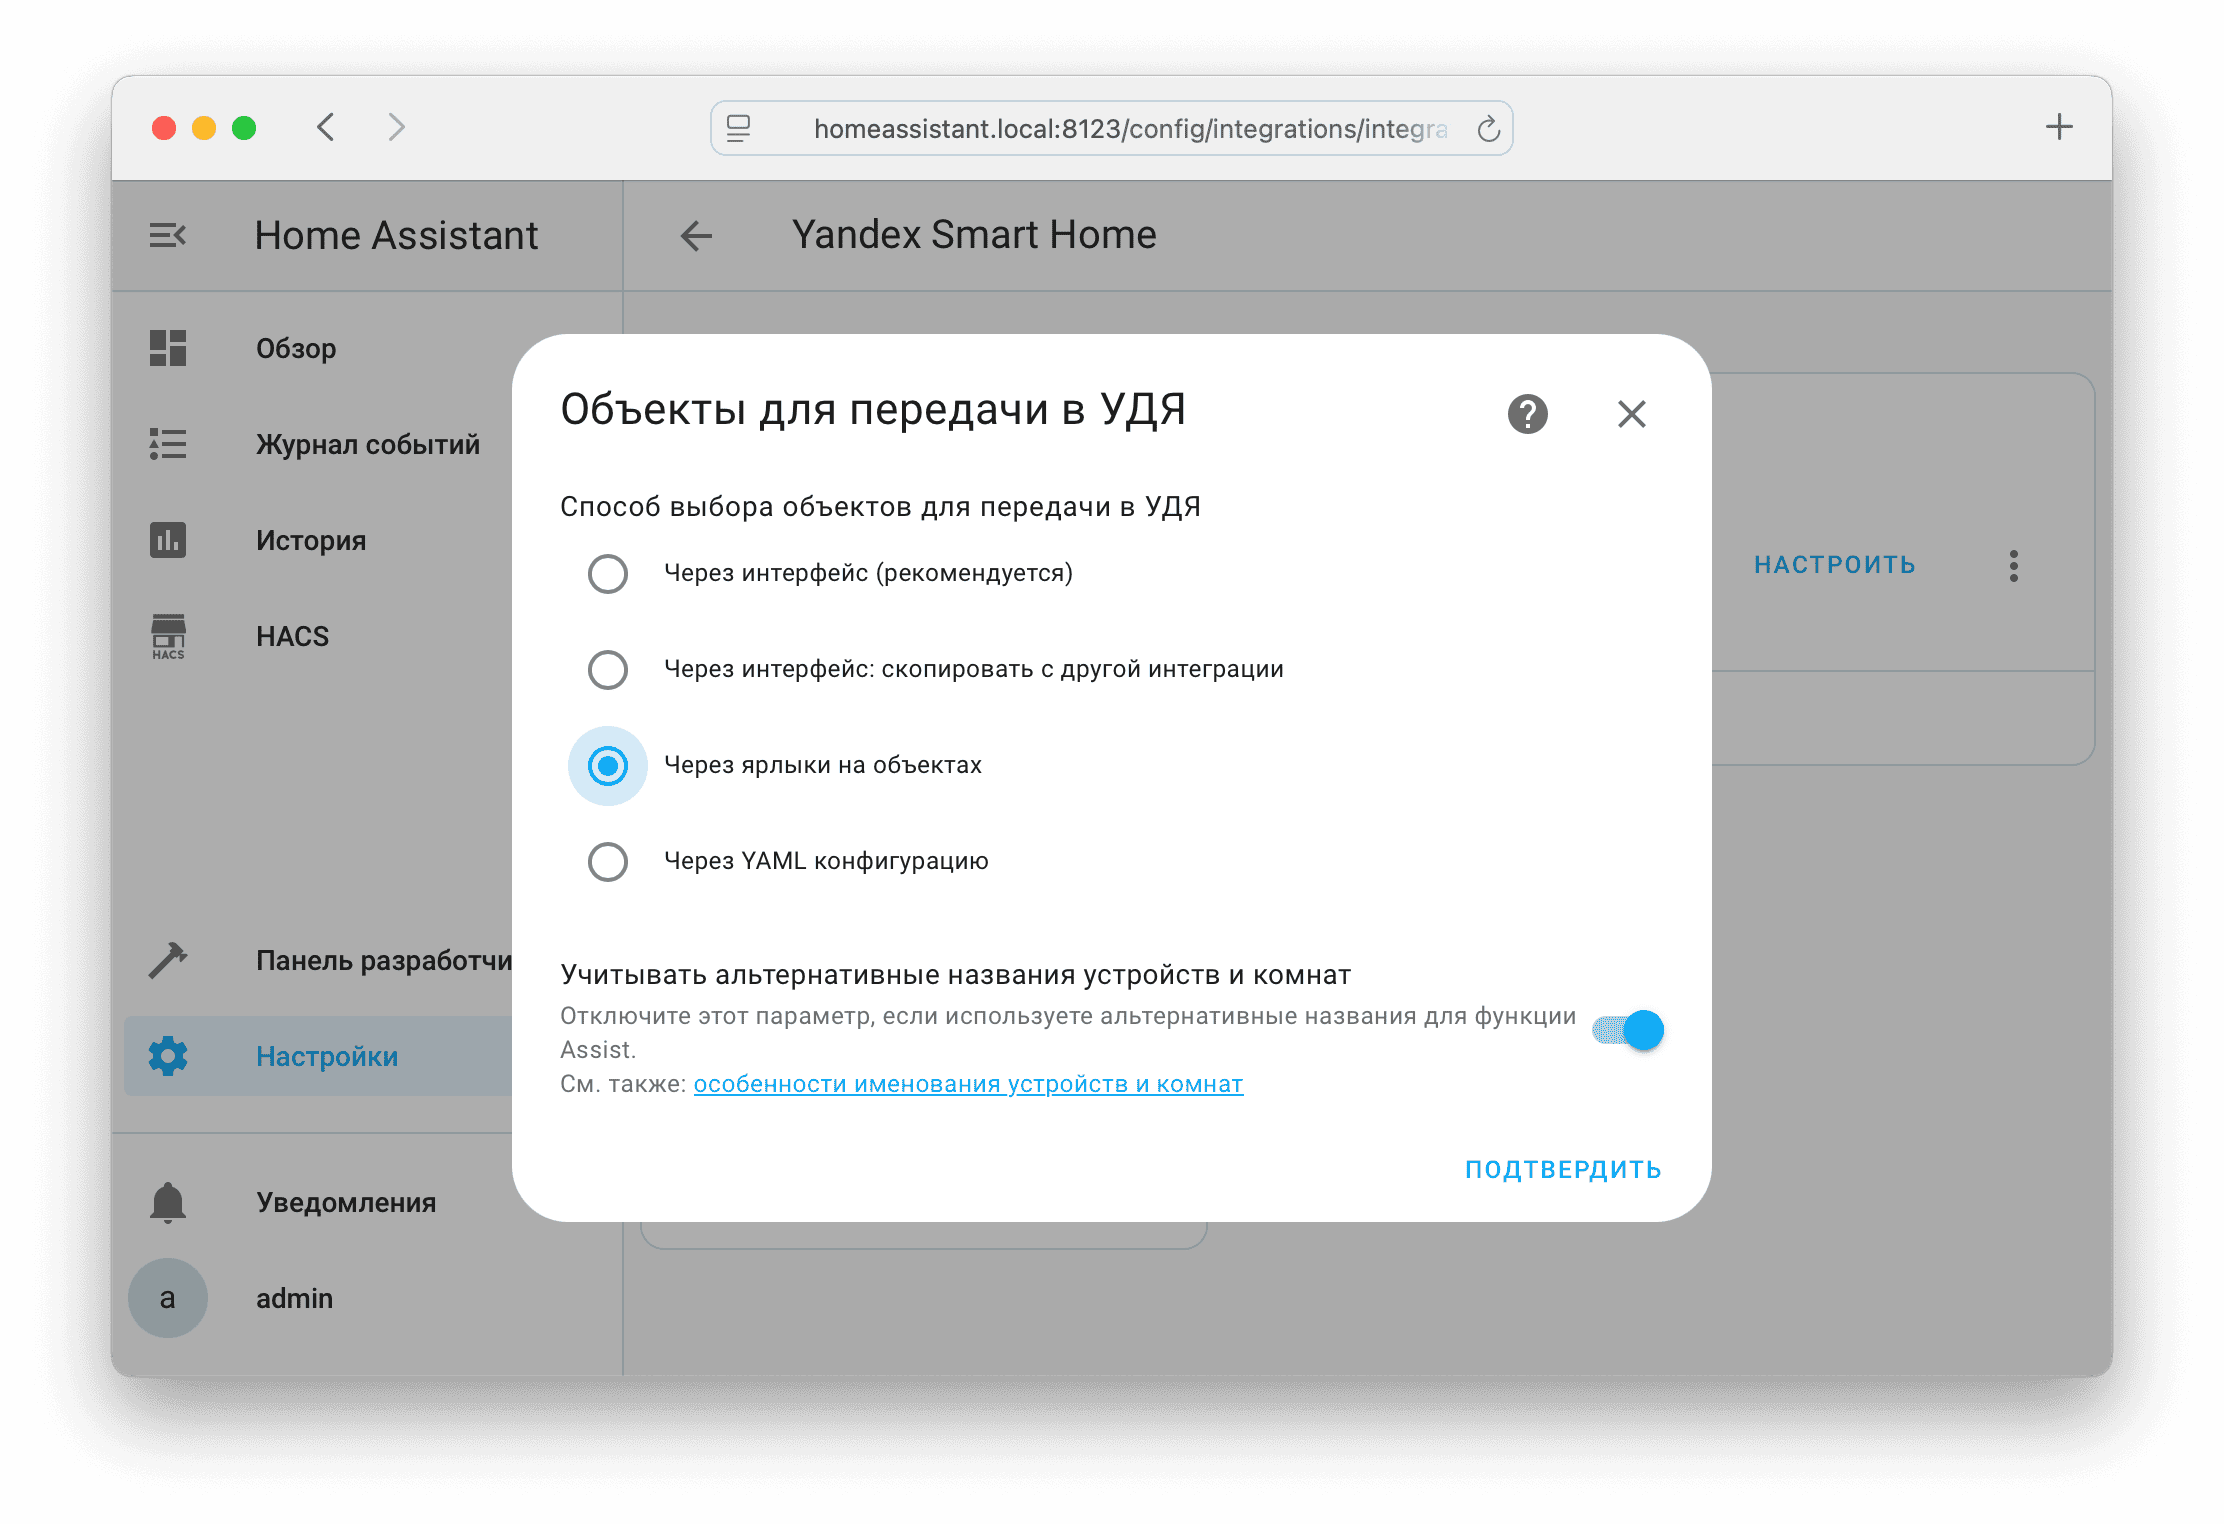
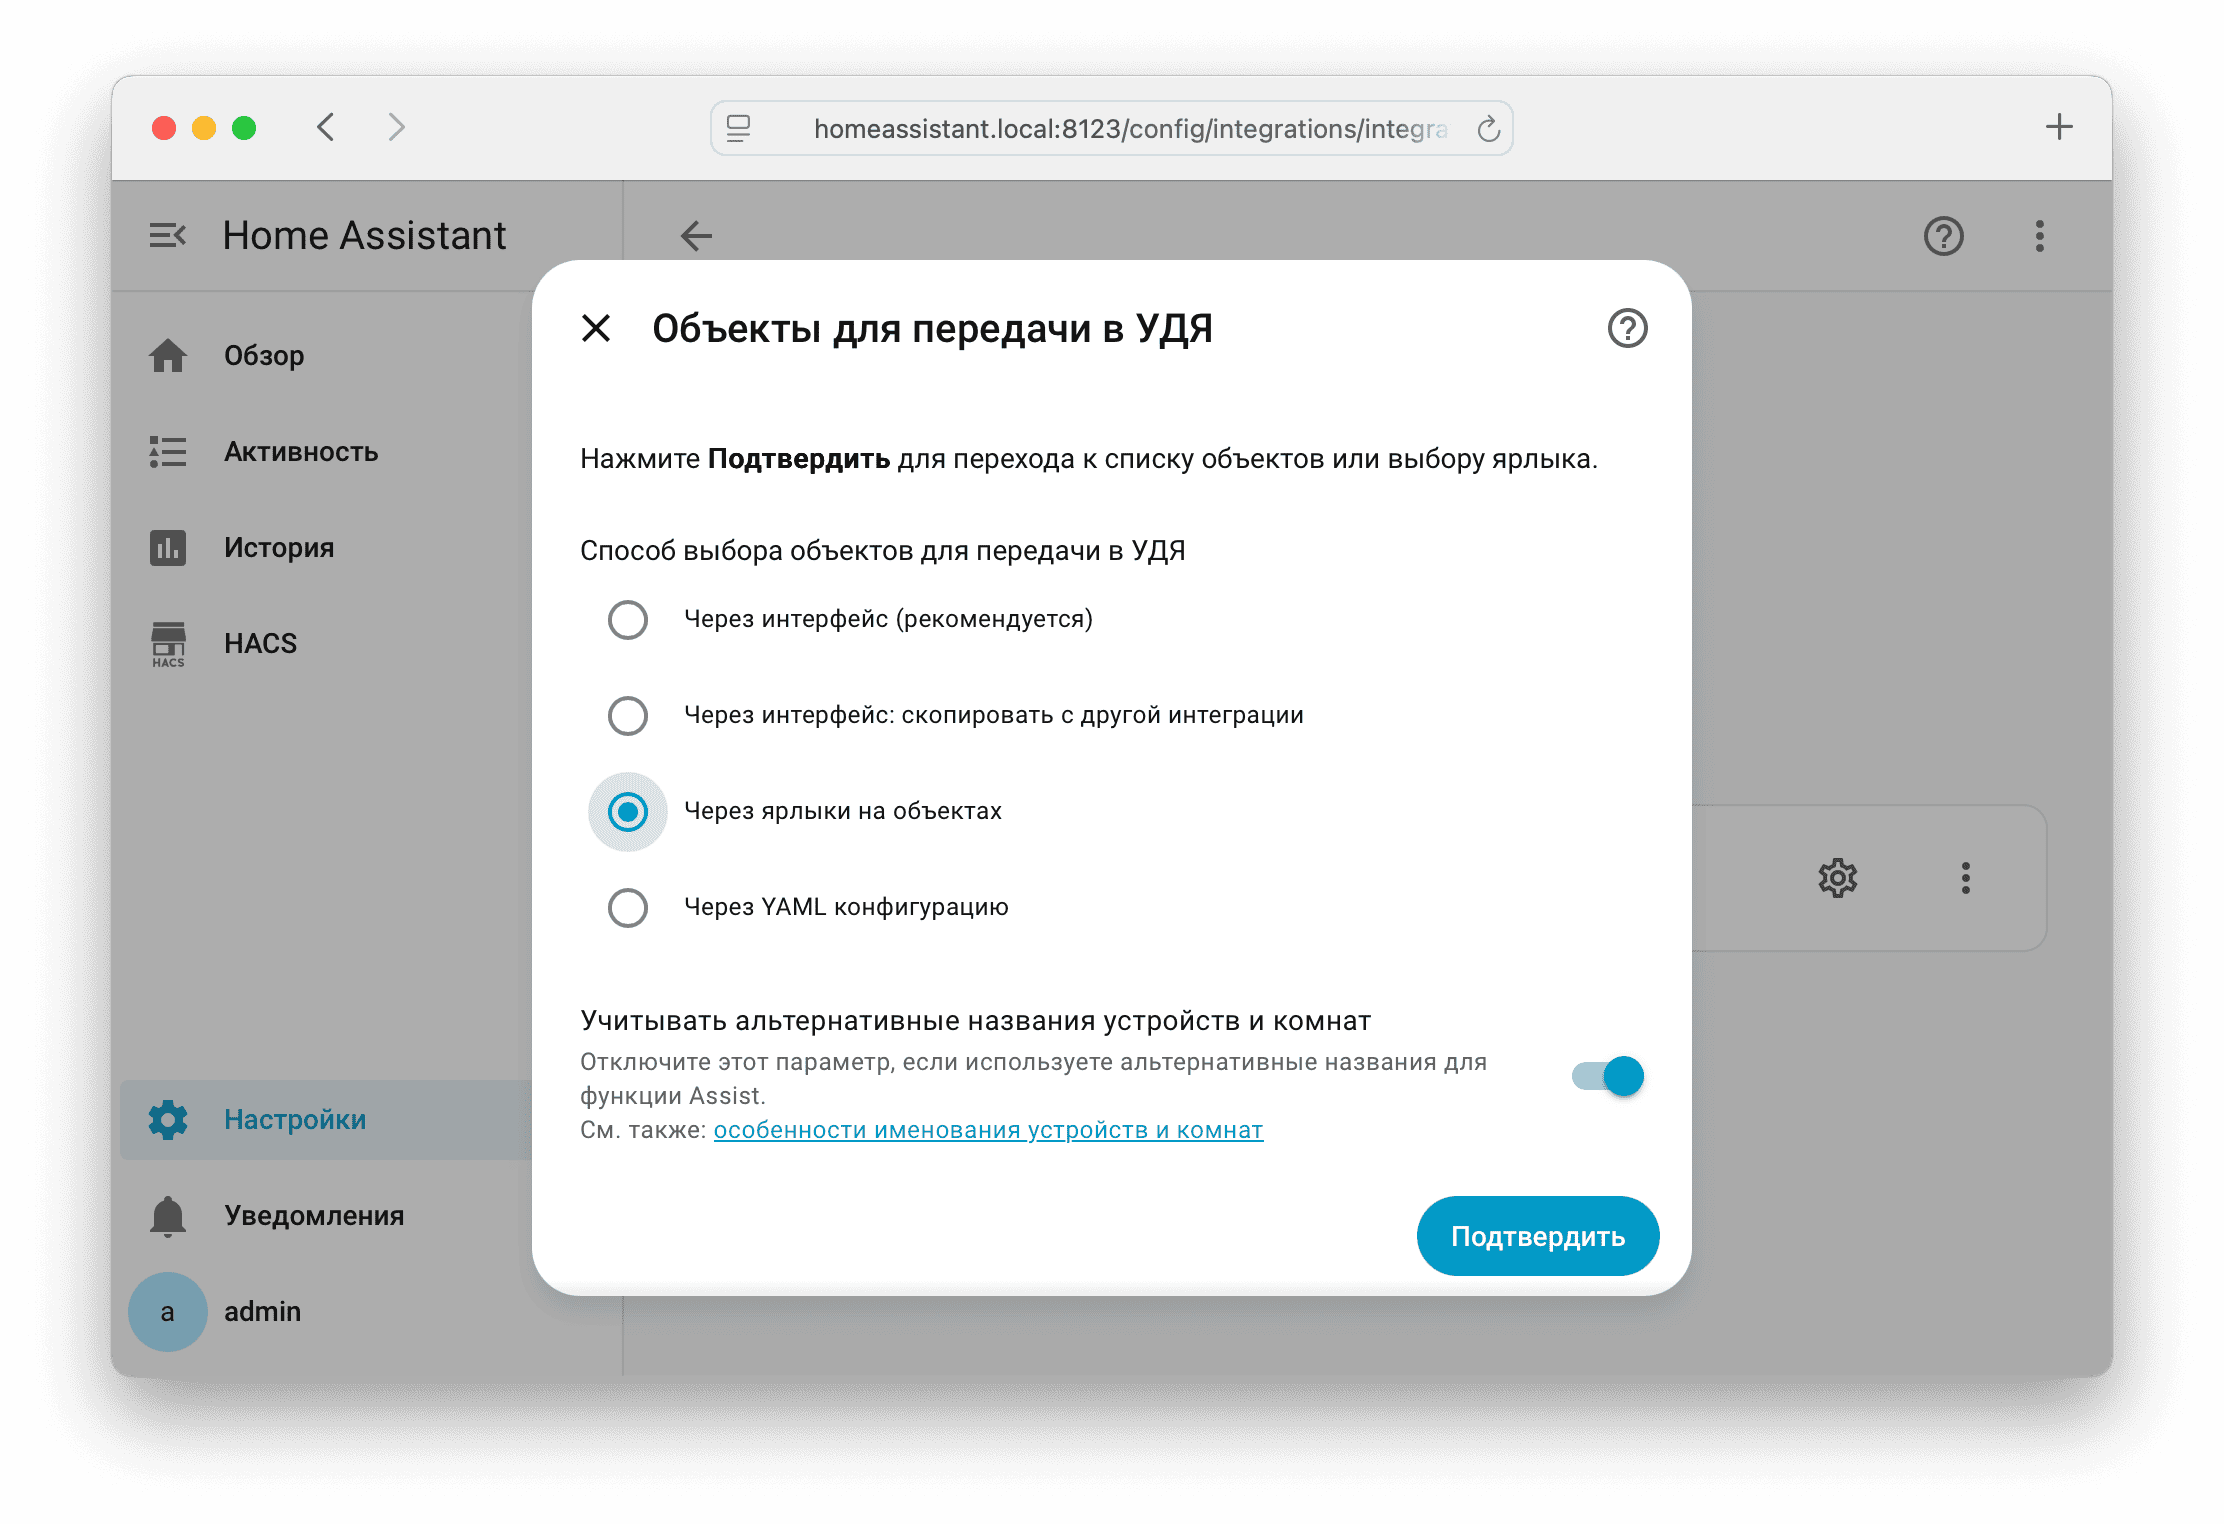
docs: Sync with new integration settings UI (#657)

diff --git a/docs/config/getting-started.md b/docs/config/getting-started.md
@@ -9,7 +9,7 @@
 
 * На странице `Настройки` --> `Устройства и службы` --> [`Интеграции`](https://my.home-assistant.io/redirect/integrations/) найдите
 и выберите интеграцию Yandex Smart Home
-* Нажмите `Настроить` на нужной записи интеграции
+* Нажмите :fontawesome-solid-gear: на нужной записи интеграции
 
 ![](../assets/images/config/gui-1.png){ width=750 }
 ![](../assets/images/config/gui-2.png){ width=750 }
